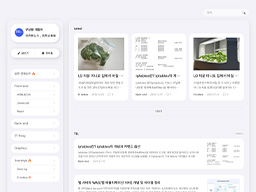
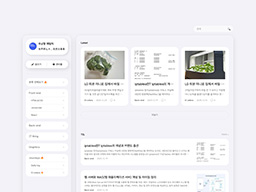
minor fixes

diff --git a/images/common.js b/images/common.js
@@ -31,56 +31,56 @@ function initProtectedKeyUp(){
 }
 
 
-function setThumbnail(){
+// function setThumbnail(){
 
-    $('.article-type-common:not(.checked-item)').each(function () {
+//     $('.article-type-common:not(.checked-item)').each(function () {
 
-        $(this).addClass('checked-item');
-        var thumb = $(this).find('.thumbnail');
-				var bgImg = thumb.css('background-image');
-        var thumbUrl = bgImg ? bgImg.replace(/(url\(|\)|")/g, '') : bgImg;
-        var img = $(this).find('.thumbnail .img-thumbnail')
-        var hasThumb = true;
-        var isResizeType = $(this).hasClass('article-type-resize');
-
-
-        // resize no-img
-        if(isResizeType && ( !img.attr('src') || img.attr('src') == 'none'))
-            img.attr('src', '//t1.daumcdn.net/tistory_admin/assets/skin/no-image.png');
+//         $(this).addClass('checked-item');
+//         var thumb = $(this).find('.thumbnail');
+// 				var bgImg = thumb.css('background-image');
+//         var thumbUrl = bgImg ? bgImg.replace(/(url\(|\)|")/g, '') : bgImg;
+//         var img = $(this).find('.thumbnail .img-thumbnail')
+//         var hasThumb = true;
+//         var isResizeType = $(this).hasClass('article-type-resize');
 
 
-        // smart crop thumbnail
-        if(!isResizeType){
-            var thumbType = '';
-            if(thumbUrl){
-                if($(this).hasClass('article-type-crop')){
-                    thumbType = 'S640x460.fwebp.q85'
-                }
-                else if($(this).hasClass('article-type-thumbnail')){
-                    thumbType = 'S160x108.fwebp.q85';
-                }
-                else if($(this).hasClass('article-type-poster')){
-                    thumbType = 'S200x265.fwebp.q85';
-                }
-            }
-
-            if(thumbType != ''){
-                var newThumbUrl = 'url(https://i1.daumcdn.net/thumb/' + thumbType + '/?scode=mtistory2&fname=' + thumbUrl + ')';
-                thumb.css("background-image", newThumbUrl);
-            }
-        }
-    });
+//         // resize no-img
+//         if(isResizeType && ( !img.attr('src') || img.attr('src') == 'none'))
+//             img.attr('src', '//t1.daumcdn.net/tistory_admin/assets/skin/no-image.png');
 
 
-    // resize for notice
-    if($('.area-view .article-type-resize').length > 0){
-        $('.notice-thumbnail:not(.checked-item)').each(function(){
-            $(this).addClass('checked-item');
-            var imgUrl = $(this).css('background-image').replace(/(url\(|\)|")/g, '');
-            if(imgUrl != 'none')  $(this).find('.img-thumbnail').attr('src', imgUrl);
-        });
-    }
-}
+//         // smart crop thumbnail
+//         if(!isResizeType){
+//             var thumbType = '';
+//             if(thumbUrl){
+//                 if($(this).hasClass('article-type-crop')){
+//                     thumbType = 'S640x460.fwebp.q85'
+//                 }
+//                 else if($(this).hasClass('article-type-thumbnail')){
+//                     thumbType = 'S160x108.fwebp.q85';
+//                 }
+//                 else if($(this).hasClass('article-type-poster')){
+//                     thumbType = 'S200x265.fwebp.q85';
+//                 }
+//             }
+
+//             if(thumbType != ''){
+//                 var newThumbUrl = 'url(https://i1.daumcdn.net/thumb/' + thumbType + '/?scode=mtistory2&fname=' + thumbUrl + ')';
+//                 thumb.css("background-image", newThumbUrl);
+//             }
+//         }
+//     });
+
+
+//     // resize for notice
+//     if($('.area-view .article-type-resize').length > 0){
+//         $('.notice-thumbnail:not(.checked-item)').each(function(){
+//             $(this).addClass('checked-item');
+//             var imgUrl = $(this).css('background-image').replace(/(url\(|\)|")/g, '');
+//             if(imgUrl != 'none')  $(this).find('.img-thumbnail').attr('src', imgUrl);
+//         });
+//     }
+// }
 
 
 
@@ -320,7 +320,7 @@ function displayControl() {
                 });
 
 
-                setThumbnail();
+                // setThumbnail();
             }
         })
     }
@@ -532,7 +532,7 @@ function checkProfileHref () {
 			 setProtectedView();
 			 initProtectedKeyUp();
 			 initDefault();
-			 setThumbnail();
+			//  setThumbnail();
 			 displayControl();
 			 sliderControl();
 			 commonClickHandler();

diff --git a/skin.html b/skin.html
@@ -285,34 +285,6 @@
               </s_sidebar_element>
 
               <s_sidebar_element>
-                <!-- 페이스북 트위터 플러그인 -->
-                <div class="box-plugins">
-                  <h3 class="title-sidebar blind">페이스북 트위터 플러그인</h3>
-                  <ul class="tab-sns">
-                    <li class="tab-button item-facebook on"><a class="tab-button" href="#" onclick="return false;">Facebook</a></li>
-                    <li class="tab-button item-twitter"><a class="tab-button" href="#" onclick="return false;">Twitter</a></li>
-                  </ul>
-
-                  <div class="plugin-facebook">
-                    <div id="fb-root"></div>
-                      <script>(function(d, s, id) {
-                        var js, fjs = d.getElementsByTagName(s)[0];
-                        if (d.getElementById(id)) return;
-                        js = d.createElement(s); js.id = id;
-                        js.src = '//connect.facebook.net/ko_KR/sdk.js#xfbml=1&version=v3.2&appId=360877073936113&autoLogAppEvents=1';
-                        fjs.parentNode.insertBefore(js, fjs);
-                      }(document, 'script', 'facebook-jssdk'));</script>
-                    <div class="fb-page" data-href="[##_var_facebookurl_##]" data-tabs="timeline" data-small-header="true" data-adapt-container-width="true" data-hide-cover="true" data-show-facepile="false"><blockquote cite="[##_var_facebookurl_##]" class="fb-xfbml-parse-ignore"><a href="[##_var_facebookurl_##]"></a></blockquote>
-                    </div>
-                  </div>
-
-                  <div class="plugin-twitter" style="display: none;">
-                    <a class="twitter-timeline" href="[##_var_twitterurl_##]"></a> <script async src="//platform.twitter.com/widgets.js" charset="utf-8"></script>
-                  </div>
-                </div>
-              </s_sidebar_element>
-
-              <s_sidebar_element>
                 <!-- 글 보관함 -->
                 <div class="box-archive">
                   <h3 class="title-sidebar">Archives</h3>
@@ -759,7 +731,7 @@
                         <s_cover_item>
                           <article class="article-type-common article-type-crop">
 														<a href="[##_cover_item_url_##]" class="link-article">
-															<p class="thumbnail" <s_cover_item_thumbnail> has-thumbnail="1" style="background-image:url('[##_cover_item_thumbnail_##]')" </s_cover_item_thumbnail>>
+															<p class="thumbnail" <s_cover_item_thumbnail>has-thumbnail="1" style="background-image:url('[##_cover_item_thumbnail_##]')" </s_cover_item_thumbnail>>
                                 <img src="" class="img-thumbnail" role="presentation">
 														</p>
 													</a>

diff --git a/style.css b/style.css
@@ -20,6 +20,8 @@
 }
 
 /* Global */
+html {box-sizing: border-box;}
+
 html, body {
   position: relative;
   height: 100%;
@@ -27,7 +29,6 @@ html, body {
   -webkit-text-size-adjust: 100%;
 }
 
-* {box-sizing: border-box;}
 *,
 *::before,
 *::after {box-sizing: inherit;}
@@ -1658,7 +1659,7 @@ summary {
 /* area-cover */
 .area-cover {
   width: 100%;
-  margin-bottom: 4rem;
+  margin-bottom: 3rem;
 }
 .area-cover:last-of-type {margin-bottom: 0;}
 
